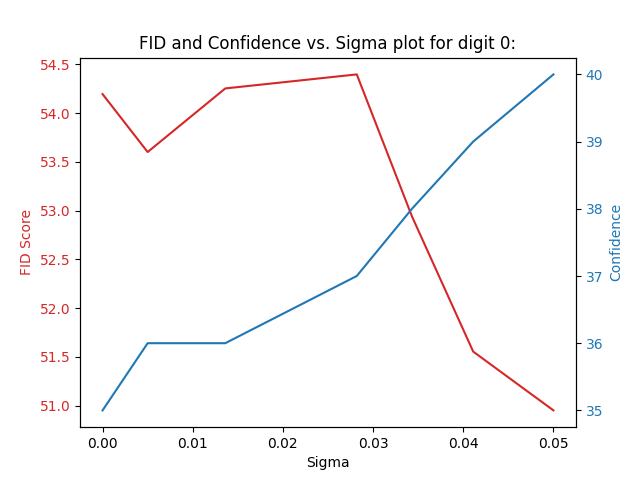
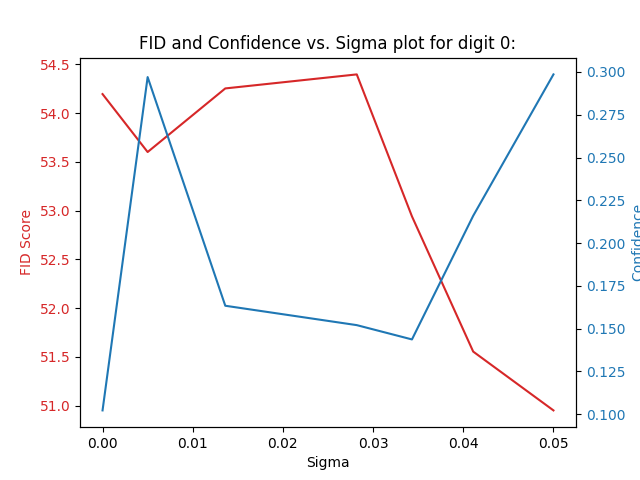
added joes classifier function

diff --git a/Evaluation.py b/Evaluation.py
@@ -18,8 +18,7 @@ class Evaluation:
     self.sigma_values = sigma_values
     self.k = k
     self.fid_scores = []
-    # self.confidence_scores = [50,49,47,44,41,40,39,38,36,37,38,39,40][:len(sigma_values)]
-    self.confidence_scores = [35,36,36,37,38,39,40,43,44,47,49,50][:len(sigma_values)]
+    self.confidence_scores = []
 
 
   def get_gan_output(self,sigma):
@@ -33,24 +32,18 @@ class Evaluation:
     return fid_df['FID Scores'].iat[-1]
 
 
-  def train_classifier(self):
-    # (X_train, y_train), (X_test, y_test) = tf.keras.datasets.mnist.load_data()
-    # X_train = X_train.reshape(60000,784)
-    # X_test = X_test.reshape(10000,784)
+  def get_predictions(self,results):
+ 
+    with open("mnist_classifier_model.pkl", 'rb') as file:
+      pickle_model = pickle.load(file)
 
-    # x_train_0 = X_train[y_train == self.desired_digit]
-    # x_train_1 = X_train[y_train != self.desired_digit]
-    # y_train_0 = y_train[y_train == self.desired_digit]
-    # y_train_1 = y_train[y_train != self.desired_digit]
-
-    # x_train_0_1 = np.append(x_train_0,x_train_1, axis=0)
-    # y_train_0_1 = np.append(y_train_0,y_train_1)
+    results = results.numpy().reshape(128, 784).astype('float64')
     
-    # print (np.unique(y_train_0_1))
+    predictions = pickle_model.predict_proba(results)
+    predictions_for_val = [pred[self.desired_digit] for pred in predictions]
+    confidence_in_digit = np.mean(predictions_for_val)
 
-    # self.forest_clf = RandomForestClassifier(random_state=10)
-    # self.forest_clf.fit(x_train_0_1, y_train_0_1)
-    pass
+    return confidence_in_digit
 
 
   def evaluate_gan_output(self):
@@ -63,16 +56,13 @@ class Evaluation:
       output_string = f"image_d{self.desired_digit}_a{self.alpha}_b{self.beta}_g{self.gamma}_k{self.k}_c{self.c_val}_s{sigma}".replace(".", "")
       fig.savefig(f"output_images/{output_string}.png")
 
-      # prediction_confidence = joes_classifier_function(results)  # will be a list of 128 confidence float values
-      # average_confidence = prediction_confidence.mean(axis=0)
-      
-      # self.confidence_scores.append(average_confidence)
+      average_confidence = self.get_predictions(results) 
+      self.confidence_scores.append(average_confidence)
 
       self.fid_scores.append(self.get_fid_output(sigma))
 
 
   def plot_fid_and_confidence(self):
-
     fig, ax1 = plt.subplots()
     color = 'tab:red'
     ax1.title.set_text(f'FID and Confidence vs. Sigma plot for digit {self.desired_digit}:')

diff --git a/main.py b/main.py
@@ -2,21 +2,21 @@ import DP_LkGAN as dpgan
 import Evaluation as gan_eval
 import tensorflow as tf
 
-# Sean: 3,8
-# Dan: 2,9
-# Tania: 1,7
-# Joe: 4,5
-# Alex: 0,6
 
 (train_images, train_labels), (_, _) = tf.keras.datasets.mnist.load_data()
 
 alpha, beta, gamma, k = 0.5, 0.5, 1, 1.6
 epochs, noise_dim, num_examples_to_generate, batch_size, max_fid_test_size = 10, 100, 128, 256, 10000
 
+# Sean: 3,8
+# Dan: 2,9
+# Tania: 1,7
+# Joe: 4,5
+# Alex: 0,6
+
 desired_digit_values = [0,6]
 c_values = [10]
 sigma_values = [0, 0.005, 0.01361, 0.02819, 0.03431, 0.04110, 0.05]
-# sigma_values = [0, 0.005, 0.01, 0.025, 0.05, 0.075, 0.1, 0.25]
 
 for desired_digit in desired_digit_values:
     for c_val in c_values:
@@ -51,7 +51,6 @@ for desired_digit in desired_digit_values:
                                         k=k,
                                         c_val=c_val,
                                         sigma_values=sigma_values)
-        # evaluator.train_classifier()
         evaluator.evaluate_gan_output()
         evaluator.plot_fid_and_confidence()
 
